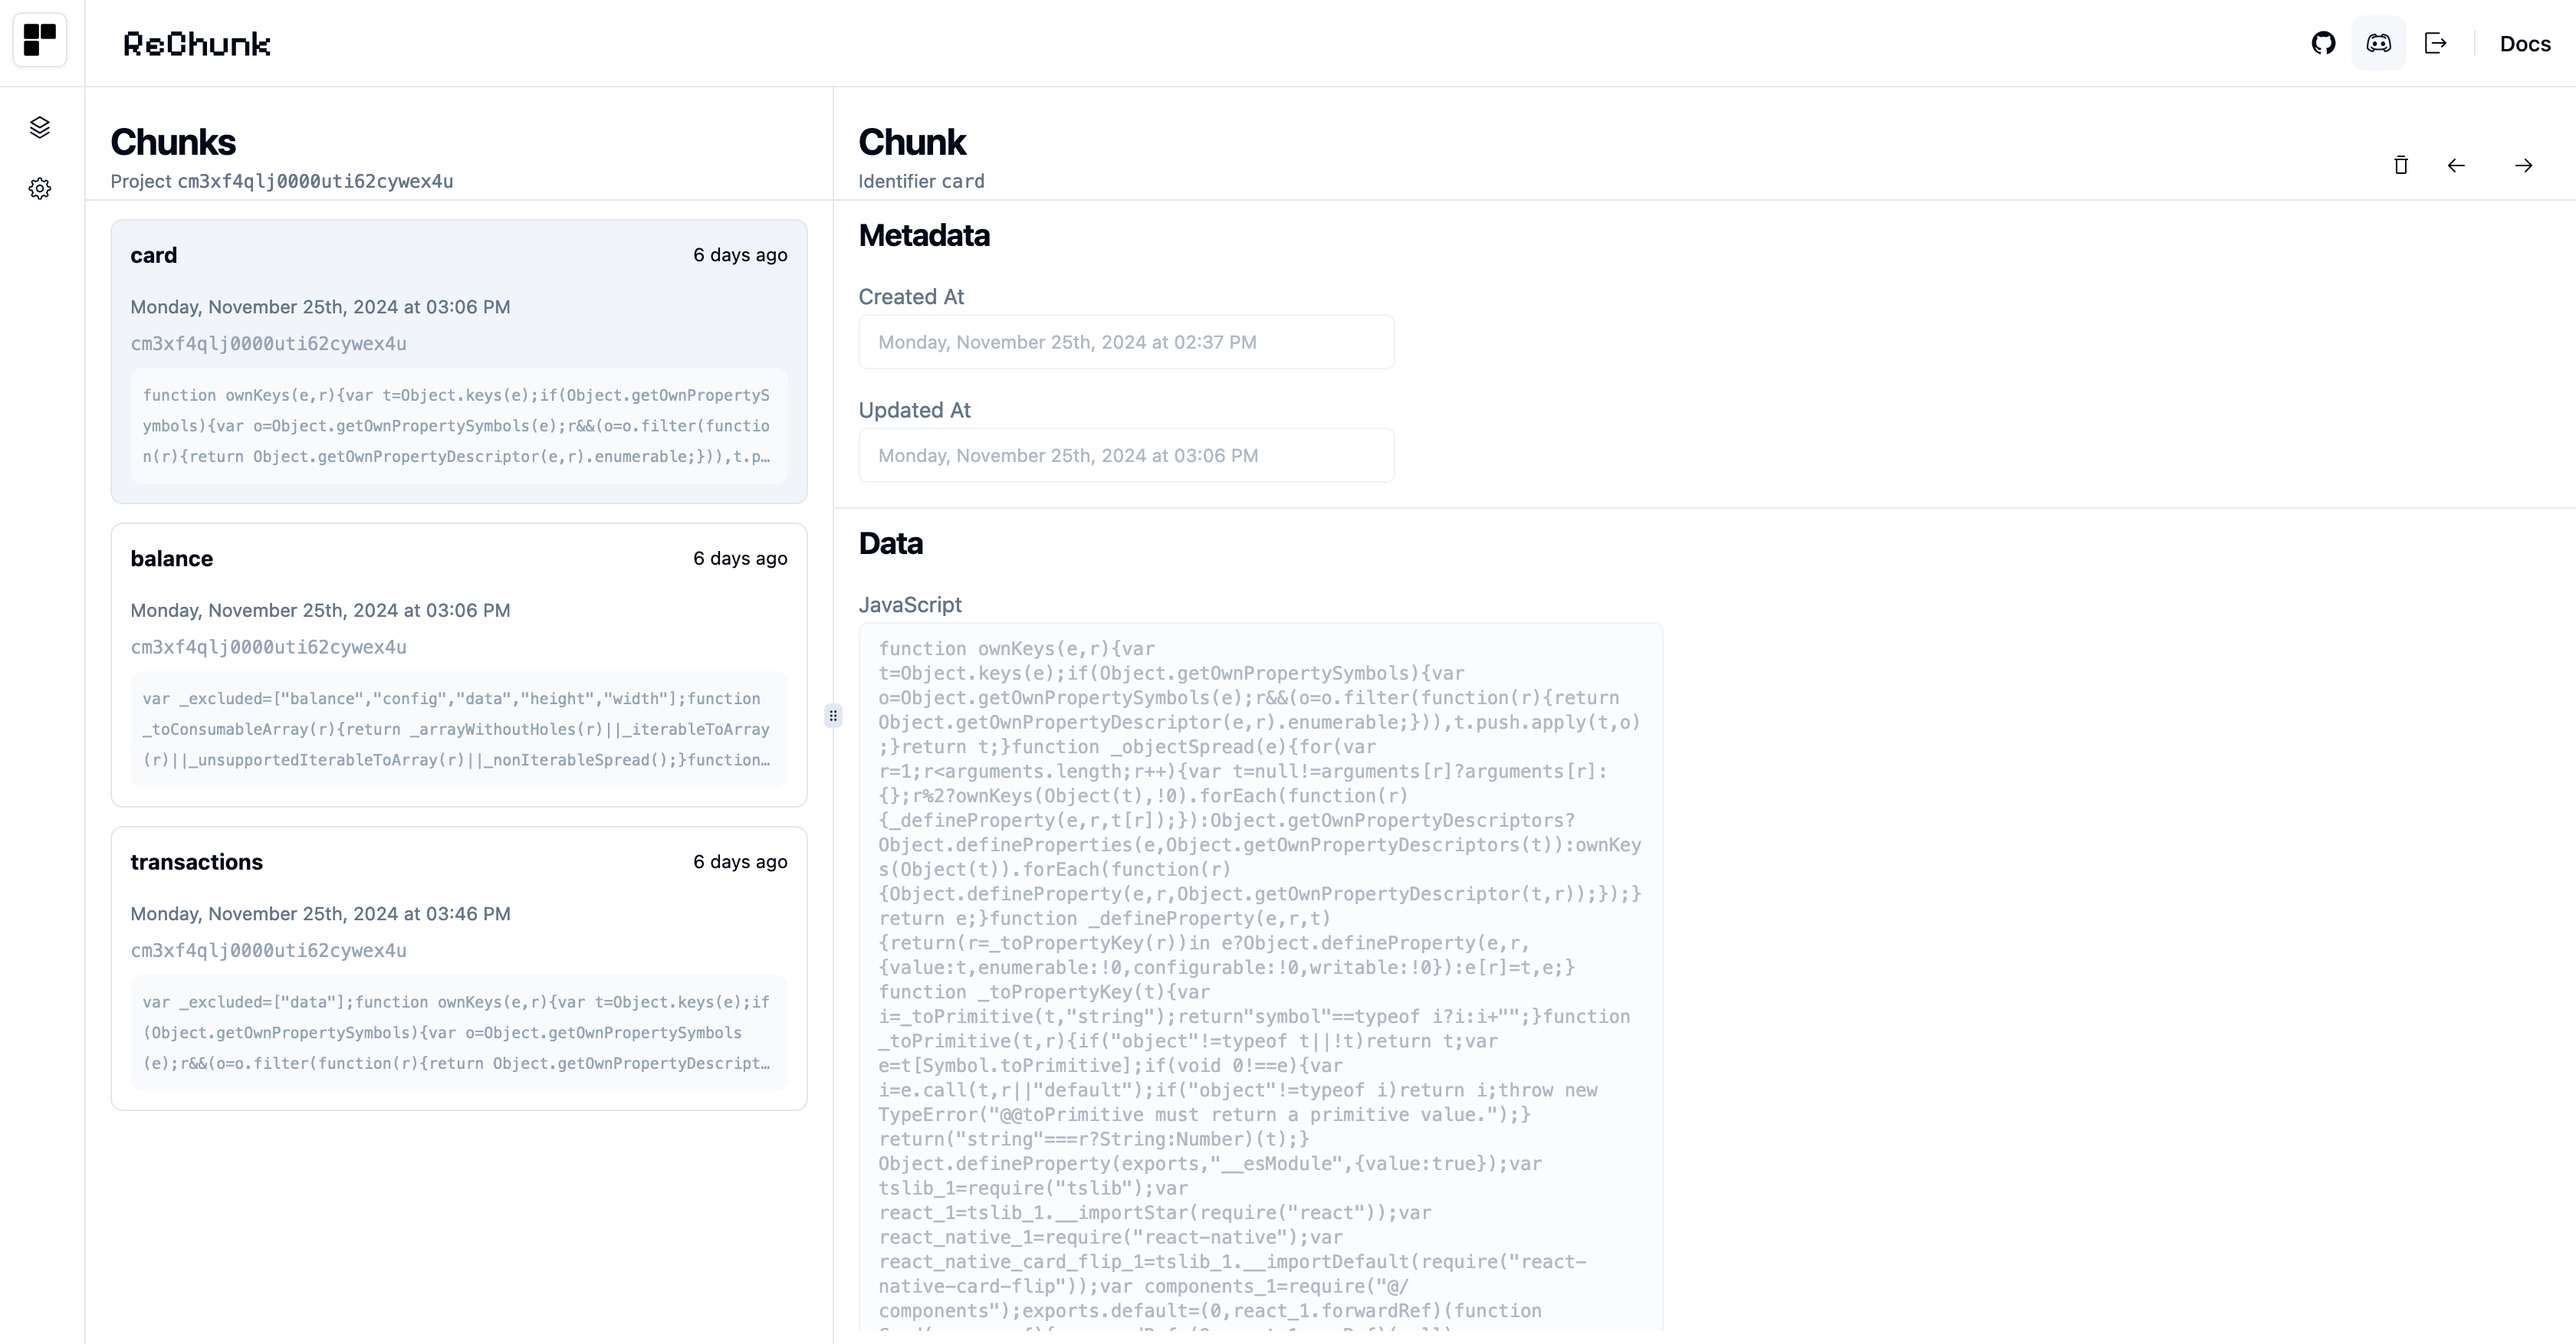
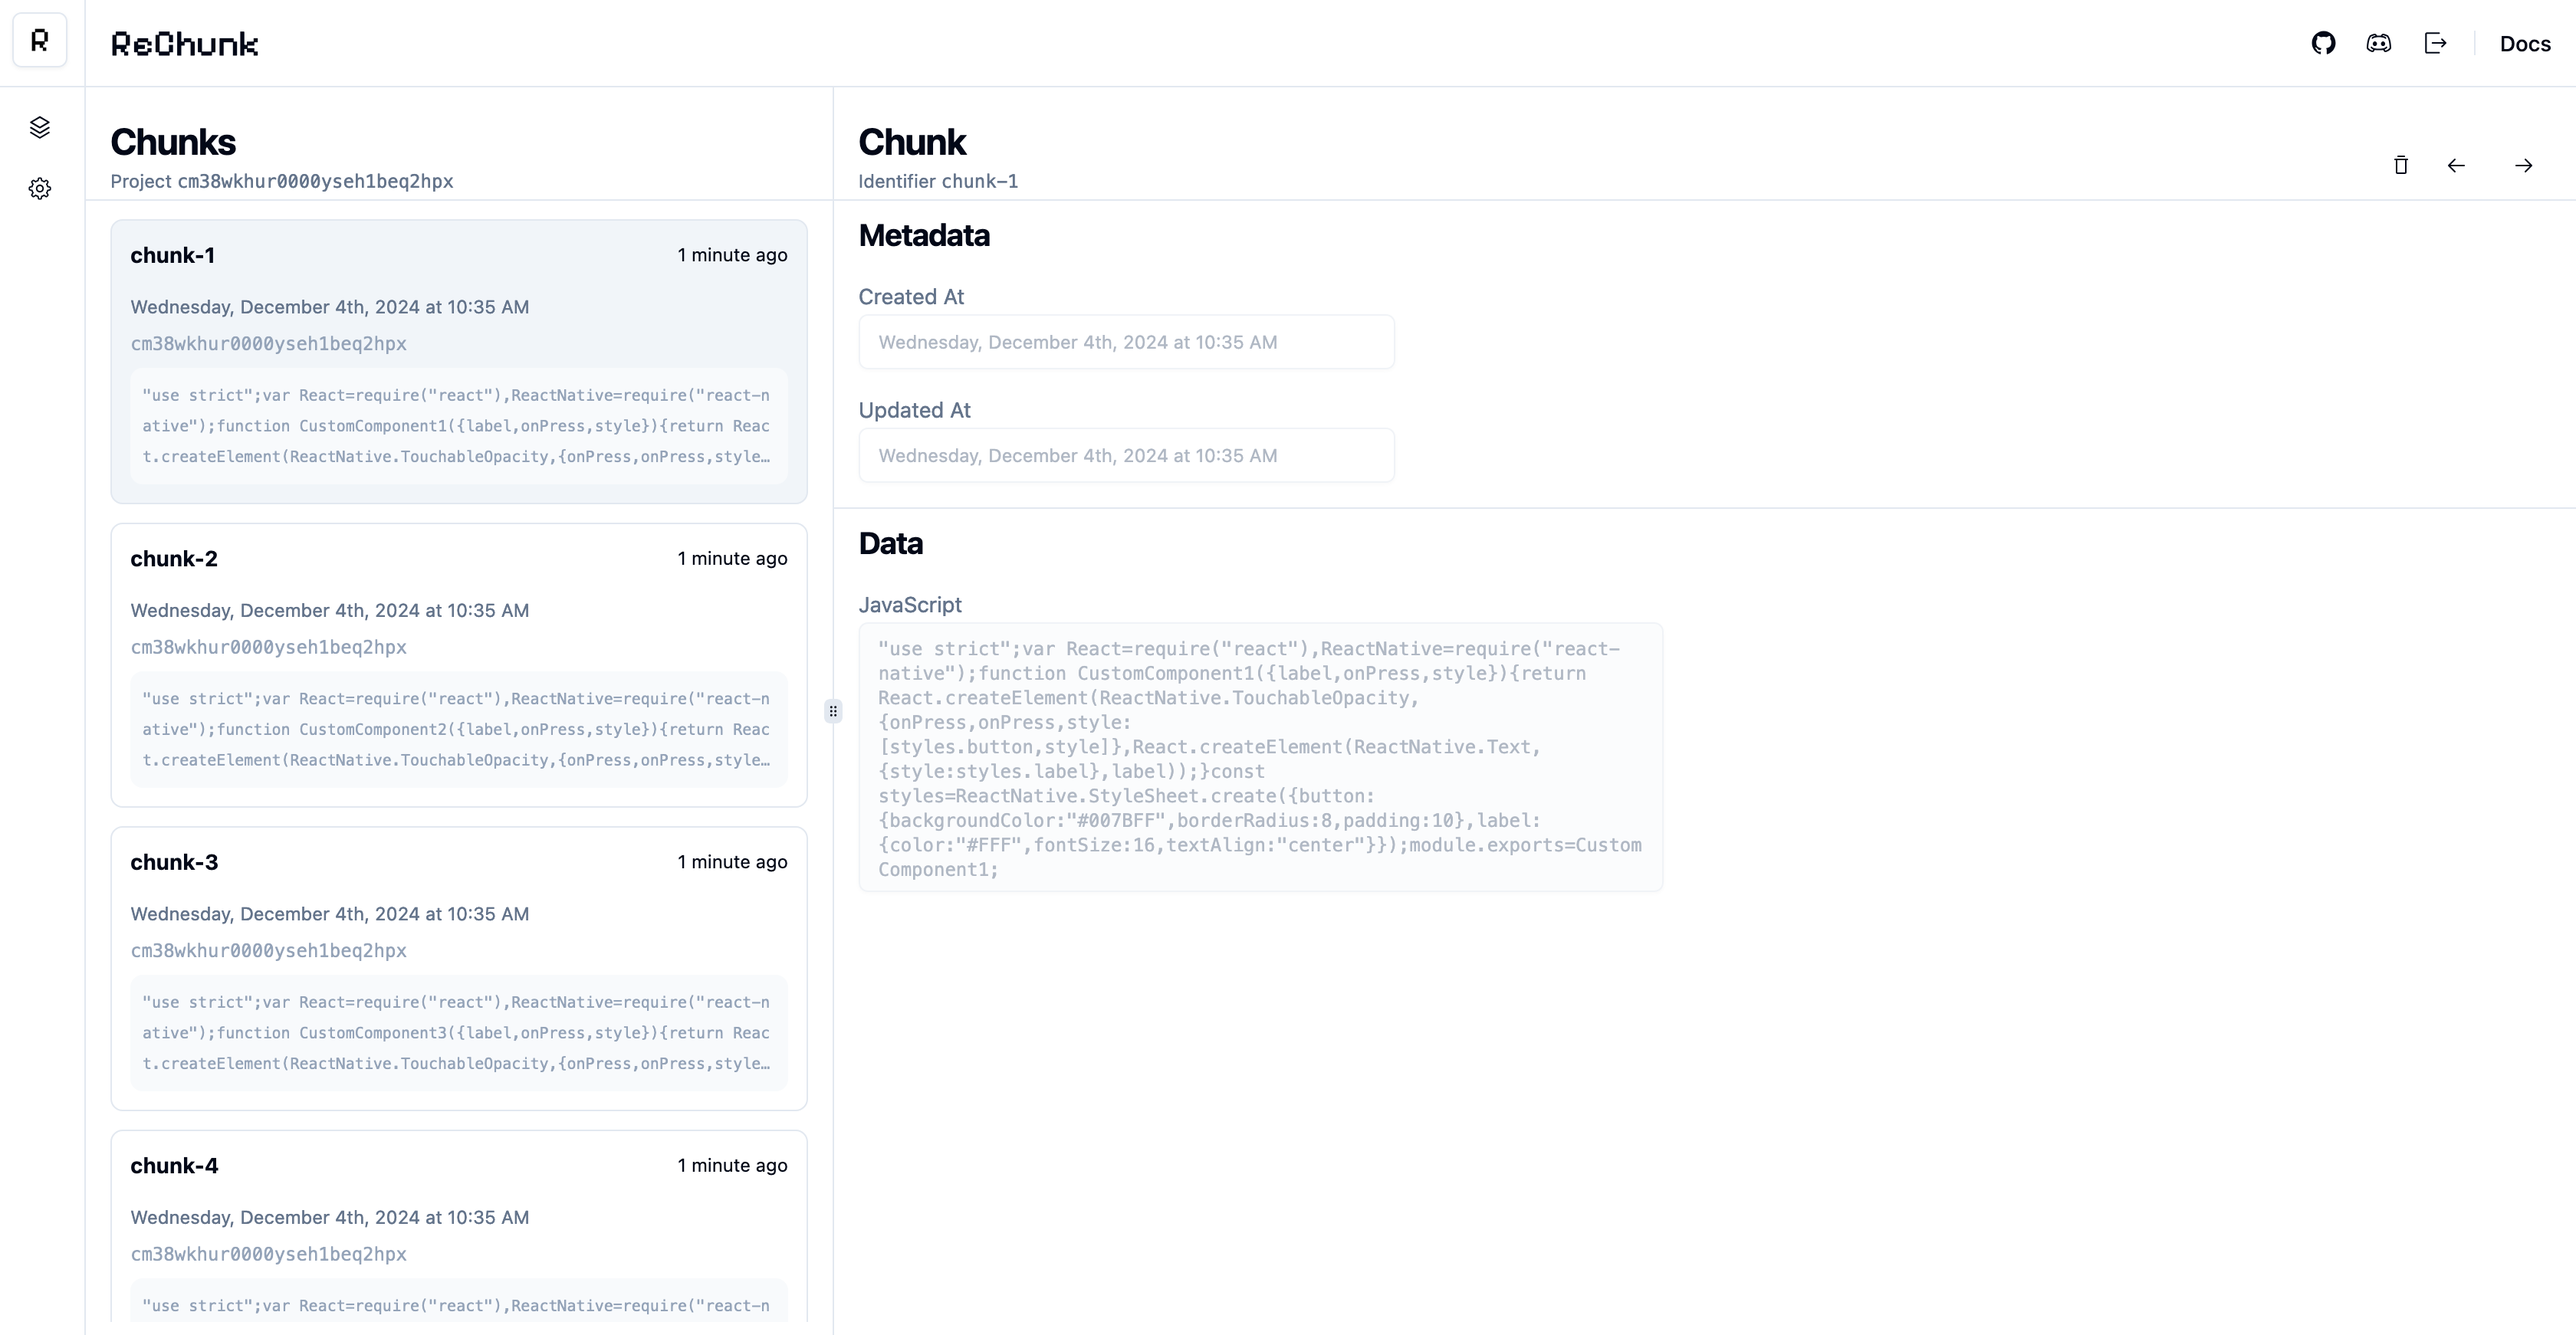
feat(api): implement healthchecks

diff --git a/apps/www/app/routes/api.v1.readyz.ts b/apps/www/app/routes/api.v1.readyz.ts
@@ -1,0 +1,35 @@
+import type {LoaderFunction} from '@remix-run/node';
+import {json} from '@remix-run/node';
+
+import {prisma} from '~/db.server';
+
+/**
+ * A loader function that acts as a health check endpoint for the application.
+ * This function verifies the application's uptime and database connectivity
+ * using Prisma's raw query capabilities.
+ *
+ * @returns {Promise<Response>} A JSON response indicating the application's health:
+ * - `status`: `"ok"` if the application and database are healthy, otherwise `"error"`.
+ * - `uptime`: The number of seconds the application has been running since the process started.
+ * - `message` (optional): Error details if the database connectivity check fails.
+ *
+ * @example
+ * ```bash
+ * curl http://localhost:3000/api/v1/readyz
+ * # Success Response: { "status": "ok", "uptime": 12345.67 }
+ * # Error Response: { "status": "error", "message": "Database connection failed" }
+ * ```
+ */
+export const loader: LoaderFunction = async (): Promise<Response> => {
+  try {
+    // Check database connectivity using Prisma
+    await prisma.$queryRaw`SELECT 1`;
+    return json({status: 'ok', uptime: process.uptime()}, {status: 200});
+  } catch (error) {
+    // Return an error response if the connectivity check fails
+    return json(
+      {status: 'error', message: (error as Error).message},
+      {status: 500},
+    );
+  }
+};

diff --git a/apps/www/app/routes/_dashboard.chunks.$chunkId.tsx b/apps/www/app/routes/_dashboard.chunks.$chunkId.tsx
@@ -1,4 +1,4 @@
-import {ActionFunction, redirect} from '@remix-run/node';
+import {ActionFunction, MetaFunction, redirect} from '@remix-run/node';
 import {useParams} from '@remix-run/react';
 import {format} from 'date-fns/format';
 
@@ -15,6 +15,17 @@ import {DATE_FORMAT} from '~/lib/constants';
 import {deleteChunkById} from '~/models/chunk.server';
 import {requireProjectId} from '~/session.server';
 import {useChunk, useChunkIds} from '~/utils/data';
+
+export const meta: MetaFunction = ({params}) => {
+  return [
+    {title: `Rechunk | Chunk ${params?.chunkId}`},
+    {
+      name: 'description',
+      content:
+        'Retrieve detailed information about a specific chunk within a project.',
+    },
+  ];
+};
 
 export const action: ActionFunction = async ({request}) => {
   const projectId = await requireProjectId(request);
@@ -60,7 +71,7 @@ export default function Chunk() {
             </div>
           </div>
         </div>
-        <ScrollArea className="h-[calc(100vh-140px)]">
+        <ScrollArea className="h-[calc(100vh-132px)]">
           <div className="space-y-4 px-4 py-2">
             <h3 className="text-xl font-bold tracking-tight">Metadata</h3>
             <LabeledInput

diff --git a/apps/www/app/routes/_dashboard.chunks.tsx b/apps/www/app/routes/_dashboard.chunks.tsx
@@ -1,4 +1,4 @@
-import {json, LoaderFunctionArgs} from '@remix-run/node';
+import {json, LoaderFunctionArgs, MetaFunction} from '@remix-run/node';
 import {Outlet, useLoaderData, useParams} from '@remix-run/react';
 import {motion} from 'framer-motion';
 
@@ -22,6 +22,17 @@ export const loader = async ({request}: LoaderFunctionArgs) => {
   });
 };
 
+export const meta: MetaFunction<typeof loader> = ({data}) => {
+  return [
+    {title: `Rechunk | Project ${data?.projectId}`},
+    {
+      name: 'description',
+      content:
+        'Explore and manage your data chunks effortlessly with our intuitive interface.',
+    },
+  ];
+};
+
 export default function Chunks() {
   const {projectId, chunks} = useLoaderData<typeof loader>();
   const {chunkId} = useParams();
@@ -39,7 +50,7 @@ export default function Chunks() {
               Project <span className="font-mono text-xs">{projectId}</span>
             </p>
           </div>
-          <ScrollArea className="h-[calc(100vh-140px)] px-4">
+          <ScrollArea className="h-[calc(100vh-132px)] px-4">
             {!chunks.length && (
               <p className="text text-muted-foreground">No chunks published</p>
             )}

diff --git a/apps/www/app/root.tsx b/apps/www/app/root.tsx
@@ -14,7 +14,21 @@ export function Layout({children}: {children: React.ReactNode}) {
       <head>
         <meta charSet="utf-8" />
         <meta name="viewport" content="width=device-width, initial-scale=1" />
-        <link rel="icon" type="image/svg+xml" href="/logo.svg" />
+        <link
+          rel="icon"
+          type="image/png"
+          href="/favicon-96x96.png"
+          sizes="96x96"
+        />
+        <link rel="icon" type="image/svg+xml" href="/favicon.svg" />
+        <link rel="shortcut icon" href="/favicon.ico" />
+        <link
+          rel="apple-touch-icon"
+          sizes="180x180"
+          href="/apple-touch-icon.png"
+        />
+        <meta name="apple-mobile-web-app-title" content="ReChunk" />
+        <link rel="manifest" href="/site.webmanifest" />
         <Meta />
         <Links />
       </head>

diff --git a/apps/www/app/routes/api.v1.livez.ts b/apps/www/app/routes/api.v1.livez.ts
@@ -1,0 +1,20 @@
+import type {LoaderFunction} from '@remix-run/node';
+import {json} from '@remix-run/node';
+
+/**
+ * A loader function that acts as a simple liveness probe for the application.
+ * It returns the current status of the application along with its uptime.
+ *
+ * @returns {Promise<Response>} A JSON response containing:
+ * - `status`: Indicates the application's status, which is always `'ok'`.
+ * - `uptime`: The number of seconds the application has been running since the process started.
+ *
+ * @example
+ * ```bash
+ * curl http://localhost:3000/api/v1/livez
+ * # Response: { "status": "ok", "uptime": 12345.67 }
+ * ```
+ */
+export const loader: LoaderFunction = async (): Promise<Response> => {
+  return json({status: 'ok', uptime: process.uptime()}, {status: 200});
+};

diff --git a/apps/www/app/routes/auth.login.tsx b/apps/www/app/routes/auth.login.tsx
@@ -2,6 +2,7 @@ import {
   ActionFunctionArgs,
   json,
   LoaderFunctionArgs,
+  MetaFunction,
   redirect,
 } from '@remix-run/node';
 import {Form, useActionData} from '@remix-run/react';
@@ -31,6 +32,17 @@ export const loader = async ({request}: LoaderFunctionArgs) => {
   if (userId) return redirect('/chunks');
 
   return json({});
+};
+
+export const meta: MetaFunction = () => {
+  return [
+    {title: 'Rechunk | Login'},
+    {
+      name: 'description',
+      content:
+        'Log in to access your personalized dashboard and manage your data efficiently.',
+    },
+  ];
 };
 
 export const action = async ({request}: ActionFunctionArgs) => {

diff --git a/apps/www/app/routes/_dashboard.settings.tsx b/apps/www/app/routes/_dashboard.settings.tsx
@@ -1,4 +1,4 @@
-import {json, LoaderFunctionArgs} from '@remix-run/node';
+import {json, LoaderFunctionArgs, MetaFunction} from '@remix-run/node';
 import {useLoaderData} from '@remix-run/react';
 import {motion} from 'framer-motion';
 
@@ -23,6 +23,17 @@ export const loader = async ({request}: LoaderFunctionArgs) => {
         : '',
     },
   });
+};
+
+export const meta: MetaFunction = () => {
+  return [
+    {title: 'Rechunk | Settings'},
+    {
+      name: 'description',
+      content:
+        'Configure your dashboard settings and customize your experience to fit your needs.',
+    },
+  ];
 };
 
 export default function Settings() {

diff --git a/apps/www/app/components/Header.tsx b/apps/www/app/components/Header.tsx
@@ -22,7 +22,7 @@ export function Header({disableIcon = false}: HeaderProps) {
           <div className="h-[57px] w-[56px] border-r p-2">
             <a href="/">
               <Button variant="outline" size="icon" aria-label="Home">
-                <img className="p-[6px]" src="/logo.svg" alt="" />
+                <img className="p-[6px]" src="/favicon.png" alt="" />
               </Button>
             </a>
           </div>

diff --git a/apps/www/app/components/LabeledTextArea.tsx b/apps/www/app/components/LabeledTextArea.tsx
@@ -13,7 +13,7 @@ export const LabeledTextarea = ({
     <p className="text-sm text-muted-foreground">{label}</p>
     <AutoResizeTextarea
       disabled
-      className={`pointer-events-none w-fit min-w-[525px] resize-none font-mono text-xs text-slate-500 ${className}`}
+      className={`pointer-events-none w-fit min-w-[525px] resize-none font-mono text-[10px] text-slate-500 ${className}`}
       value={value}
     />
   </div>

diff --git a/apps/www/app/routes/_dashboard.tsx b/apps/www/app/routes/_dashboard.tsx
@@ -25,7 +25,7 @@ export default function Dashboard() {
         <div className="h-[57px] border-b p-2">
           <a href="/">
             <Button variant="outline" size="icon" aria-label="Home">
-              <img className="p-[6px]" src="/logo.svg" alt="" />
+              <img className="p-[6px]" src="/favicon.png" alt="" />
             </Button>
           </a>
         </div>

diff --git a/apps/www/app/routes/_index.tsx b/apps/www/app/routes/_index.tsx
@@ -14,7 +14,10 @@ import * as Text from '~/components/ui/text';
 export const meta: MetaFunction = () => {
   return [
     {title: 'ReChunk | Remote Chunks'},
-    {name: 'description', content: 'Welcome to ReChunk!'},
+    {
+      name: 'description',
+      content: 'Seamless Code Chunking for Optimized React Native Apps.',
+    },
   ];
 };
 

diff --git a/apps/www/app/components/ui/safari.tsx b/apps/www/app/components/ui/safari.tsx
@@ -125,7 +125,7 @@ export default function Safari({
             fill="#A3A3A3"
           />
         </g>
-        <image href={src} width="1200" height="700" x="1" y="15" />
+        <image href={src} width="1200" height="700" x="1" y="13" />
       </g>
       <defs>
         <clipPath id="path0">
